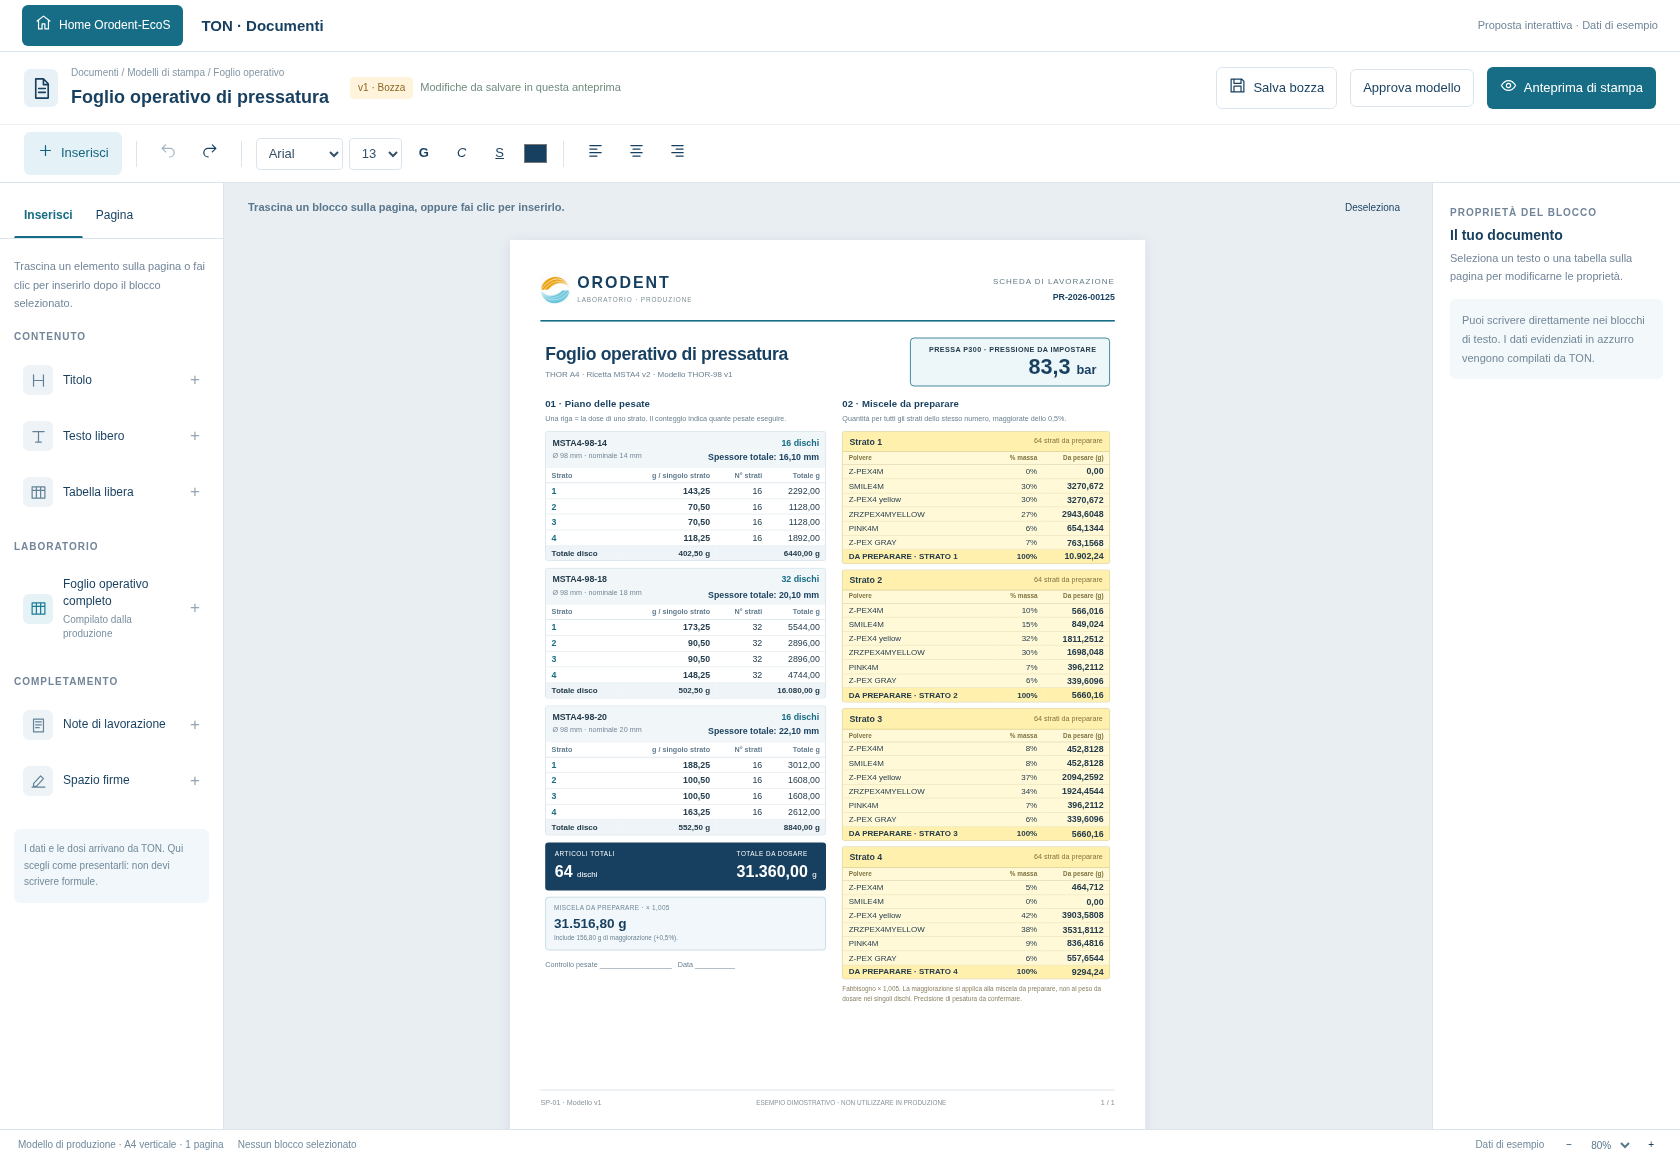
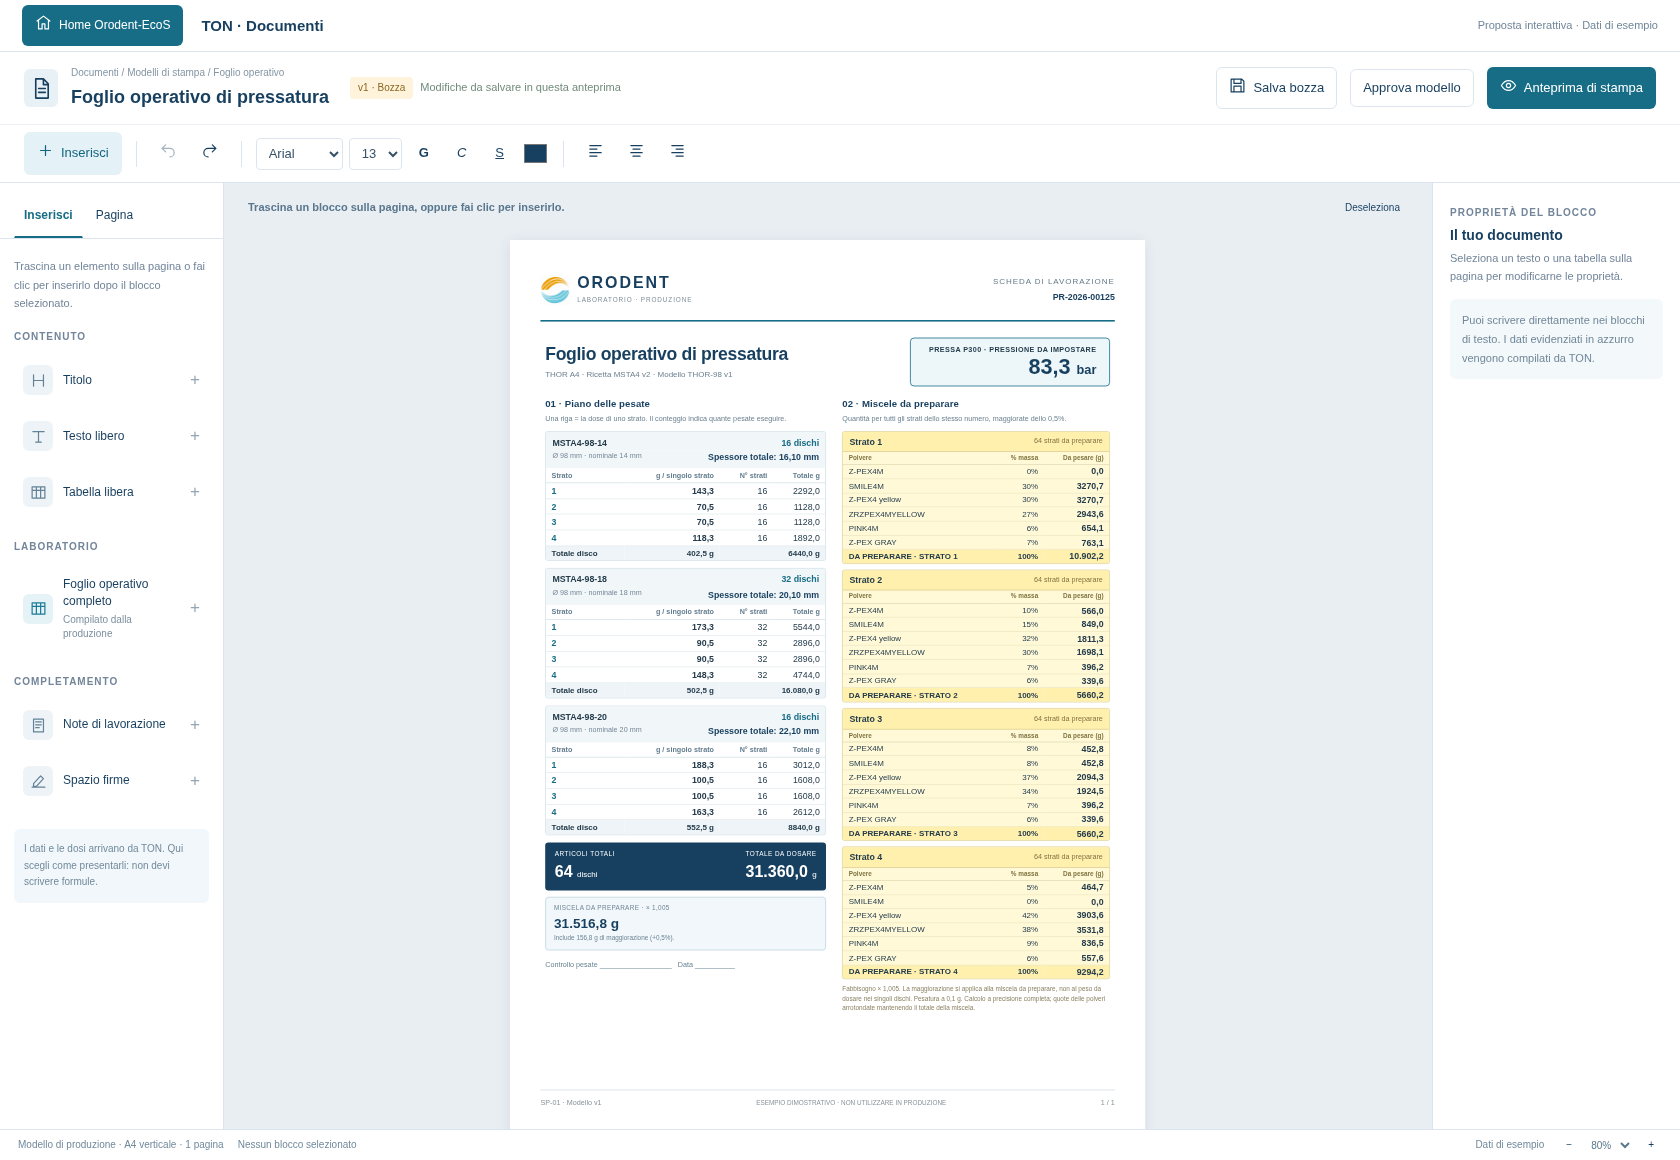
Reflect 0.1 gram weighing precision in laboratory document proposal

diff --git a/docs/mockups/ton-documenti-laboratorio.html b/docs/mockups/ton-documenti-laboratorio.html
@@ -57,10 +57,18 @@ const labFormats=[
 ];
 const labPowders=['Z-PEX4M','SMILE4M','Z-PEX4 yellow','ZRZPEX4MYELLOW','PINK4M','Z-PEX GRAY'];
 const labRecipes=[[0,30,30,27,6,7],[10,15,32,30,7,6],[8,8,37,34,7,6],[5,0,42,38,9,6]];
-const labNumber=n=>new Intl.NumberFormat('it-IT',{minimumFractionDigits:2,maximumFractionDigits:2}).format(n/100);
-const labMixNumber=n=>new Intl.NumberFormat('it-IT',{minimumFractionDigits:2,maximumFractionDigits:4}).format(n/100);
-function labData(){const scale=$('sample').value==='long'?.5:1;const formats=labFormats.map(f=>({...f,count:f.count*scale}));const qty=formats.reduce((t,f)=>t+f.count,0);const layers=[0,1,2,3].map(i=>{const mass=formats.reduce((t,f)=>t+f.weights[i]*f.count,0);return{number:i+1,count:qty,mass,preparation:mass*1005/1000}});const total=layers.reduce((t,l)=>t+l.mass,0),preparationTotal=layers.reduce((t,l)=>t+l.preparation,0);return{formats,qty,layers,total,preparationTotal,allowance:preparationTotal-total}}
-function labSheet(block){const d=labData();return `<div class="lab-heading"><div><h2>Foglio operativo di pressatura</h2><p>THOR A4 · Ricetta MSTA4 v2 · Modello THOR-98 v1</p></div><div class="lab-pressure"><span>PRESSA P300 · PRESSIONE DA IMPOSTARE</span><strong>83,3 <small>bar</small></strong></div></div><div class="lab-layout"><section class="lab-weigh"><h3>01 · Piano delle pesate</h3><p class="lab-help">Una riga = la dose di uno strato. Il conteggio indica quante pesate eseguire.</p>${d.formats.map(f=>`<div class="lab-format"><div class="lab-format-title"><b>${f.code}</b><strong>${f.count} dischi</strong></div><div class="lab-dimensions">Ø 98 mm · nominale ${f.nominal} mm <b>Spessore totale: ${f.thickness} mm</b></div><table><thead><tr><th>Strato</th><th>g / singolo strato</th><th>N° strati</th><th>Totale g</th></tr></thead><tbody>${f.weights.map((m,i)=>`<tr><td><span class="lab-layer">${i+1}</span>${block.engineering?`<small class="lab-engineering">${[1400,1500,1700,1900][i]} ppm</small>`:''}</td><td class="number"><b>${labNumber(m)}</b></td><td class="number">${f.count}</td><td class="number">${labNumber(m*f.count)}</td></tr>`).join('')}</tbody><tfoot><tr><td>Totale disco</td><td class="number">${labNumber(f.weights.reduce((t,m)=>t+m,0))} g</td><td colspan="2" class="number">${labNumber(f.weights.reduce((t,m)=>t+m,0)*f.count)} g</td></tr></tfoot></table>${block.engineering?'<div class="lab-engineering">Coefficiente modello: 25 g/mm · dati di progetto</div>':''}</div>`).join('')}<div class="lab-grand"><div><span>ARTICOLI TOTALI</span><strong>${d.qty} <small>dischi</small></strong></div><div><span>TOTALE DA DOSARE</span><strong>${labNumber(d.total)} <small>g</small></strong></div></div><div class="lab-preparation"><span>MISCELA DA PREPARARE · × 1,005</span><b>${labNumber(d.preparationTotal)} g</b><small>Include ${labNumber(d.allowance)} g di maggiorazione (+0,5%).</small></div><div class="lab-controls">Controllo pesate __________________ &nbsp; Data __________</div></section><section class="lab-mix"><h3>02 · Miscele da preparare</h3><p class="lab-help">Quantità per tutti gli strati dello stesso numero, maggiorate dello 0,5%.</p><div class="lab-mix-grid">${d.layers.map((l,i)=>`<div class="lab-mix-card"><div class="lab-mix-title"><b>Strato ${l.number}</b><span>${l.count} strati da preparare${block.engineering?' · '+[1400,1500,1700,1900][i]+' ppm':''}</span></div><table><thead><tr><th>Polvere</th><th>% massa</th><th>Da pesare (g)</th></tr></thead><tbody>${labPowders.map((p,j)=>`<tr><td>${p}</td><td class="number">${labRecipes[i][j]}%</td><td class="number"><b>${labMixNumber(l.preparation*labRecipes[i][j]/100)}</b></td></tr>`).join('')}</tbody><tfoot><tr><td>DA PREPARARE · STRATO ${l.number}</td><td class="number">100%</td><td class="number">${labNumber(l.preparation)}</td></tr></tfoot></table></div>`).join('')}</div><p class="lab-footnote">Fabbisogno × 1,005. La maggiorazione si applica alla miscela da preparare, non al peso da dosare nei singoli dischi. Precisione di pesatura da confermare.</p></section></div>`}
+// Demo values use integer centigrams. Weighing values use integer decigrams.
+const labNumber=n=>new Intl.NumberFormat('it-IT',{minimumFractionDigits:1,maximumFractionDigits:1}).format(Math.floor((n+5)/10)/10);
+function labWeighing(centigrams,percentages){
+ const target=Math.floor((centigrams+5)/10);
+ const quotas=percentages.map((p,i)=>({i,units:Math.floor(centigrams*p/1000),remainder:centigrams*p%1000}));
+ let missing=target-quotas.reduce((sum,q)=>sum+q.units,0);
+ const order=[...quotas].sort((a,b)=>b.remainder-a.remainder||a.i-b.i);
+ for(let i=0;i<missing;i++)order[i].units++;
+ return{target,parts:quotas.map(q=>q.units)};
+}
+function labData(){const scale=$('sample').value==='long'?.5:1;const formats=labFormats.map(f=>({...f,count:f.count*scale}));const qty=formats.reduce((t,f)=>t+f.count,0);const layers=[0,1,2,3].map(i=>{const mass=formats.reduce((t,f)=>t+f.weights[i]*f.count,0);return{number:i+1,count:qty,mass,preparation:mass*1005/1000,weighing:labWeighing(mass*1005/1000,labRecipes[i])}});const total=layers.reduce((t,l)=>t+l.mass,0),preparationTotal=layers.reduce((t,l)=>t+l.preparation,0);const preparationWeighingTotal=layers.reduce((t,l)=>t+l.weighing.target*10,0);return{formats,qty,layers,total,preparationTotal,preparationWeighingTotal,allowance:preparationTotal-total}}
+function labSheet(block){const d=labData();return `<div class="lab-heading"><div><h2>Foglio operativo di pressatura</h2><p>THOR A4 · Ricetta MSTA4 v2 · Modello THOR-98 v1</p></div><div class="lab-pressure"><span>PRESSA P300 · PRESSIONE DA IMPOSTARE</span><strong>83,3 <small>bar</small></strong></div></div><div class="lab-layout"><section class="lab-weigh"><h3>01 · Piano delle pesate</h3><p class="lab-help">Una riga = la dose di uno strato. Il conteggio indica quante pesate eseguire.</p>${d.formats.map(f=>`<div class="lab-format"><div class="lab-format-title"><b>${f.code}</b><strong>${f.count} dischi</strong></div><div class="lab-dimensions">Ø 98 mm · nominale ${f.nominal} mm <b>Spessore totale: ${f.thickness} mm</b></div><table><thead><tr><th>Strato</th><th>g / singolo strato</th><th>N° strati</th><th>Totale g</th></tr></thead><tbody>${f.weights.map((m,i)=>`<tr><td><span class="lab-layer">${i+1}</span>${block.engineering?`<small class="lab-engineering">${[1400,1500,1700,1900][i]} ppm</small>`:''}</td><td class="number"><b>${labNumber(m)}</b></td><td class="number">${f.count}</td><td class="number">${labNumber(m*f.count)}</td></tr>`).join('')}</tbody><tfoot><tr><td>Totale disco</td><td class="number">${labNumber(f.weights.reduce((t,m)=>t+m,0))} g</td><td colspan="2" class="number">${labNumber(f.weights.reduce((t,m)=>t+m,0)*f.count)} g</td></tr></tfoot></table>${block.engineering?'<div class="lab-engineering">Coefficiente modello: 25 g/mm · dati di progetto</div>':''}</div>`).join('')}<div class="lab-grand"><div><span>ARTICOLI TOTALI</span><strong>${d.qty} <small>dischi</small></strong></div><div><span>TOTALE DA DOSARE</span><strong>${labNumber(d.total)} <small>g</small></strong></div></div><div class="lab-preparation"><span>MISCELA DA PREPARARE · × 1,005</span><b>${labNumber(d.preparationWeighingTotal)} g</b><small>Include ${labNumber(d.allowance)} g di maggiorazione (+0,5%).</small></div><div class="lab-controls">Controllo pesate __________________ &nbsp; Data __________</div></section><section class="lab-mix"><h3>02 · Miscele da preparare</h3><p class="lab-help">Quantità per tutti gli strati dello stesso numero, maggiorate dello 0,5%.</p><div class="lab-mix-grid">${d.layers.map((l,i)=>`<div class="lab-mix-card"><div class="lab-mix-title"><b>Strato ${l.number}</b><span>${l.count} strati da preparare${block.engineering?' · '+[1400,1500,1700,1900][i]+' ppm':''}</span></div><table><thead><tr><th>Polvere</th><th>% massa</th><th>Da pesare (g)</th></tr></thead><tbody>${labPowders.map((p,j)=>`<tr><td>${p}</td><td class="number">${labRecipes[i][j]}%</td><td class="number"><b>${labNumber(l.weighing.parts[j]*10)}</b></td></tr>`).join('')}</tbody><tfoot><tr><td>DA PREPARARE · STRATO ${l.number}</td><td class="number">100%</td><td class="number">${labNumber(l.weighing.target*10)}</td></tr></tfoot></table></div>`).join('')}</div><p class="lab-footnote">Fabbisogno × 1,005. La maggiorazione si applica alla miscela da preparare, non al peso da dosare nei singoli dischi. Pesatura a 0,1 g. Calcolo a precisione completa; quote delle polveri arrotondate mantenendo il totale della miscela.</p></section></div>`}
 function rowData(kind){const d=data(),m=d.multiplier;
  if(kind==='articles')return d.long?Array.from({length:12},(_,i)=>({code:'MSTA2-98-'+(12+i),description:'Thor A2',format:'Ø 98 × '+(12+i)+' mm',qty:'2'})):[{code:'MSTA2-98-16',description:'Thor A2',format:'Ø 98 × 16 mm',qty:'8'},{code:'MSTA2-98-18',description:'Thor A2',format:'Ø 98 × 18 mm',qty:'4'}];
  if(kind==='dose')return [{layer:'1 · Superiore',powder:'BI-3 · Bianca',revision:'v2',dose:159*m},{layer:'1 · Superiore',powder:'GI-5 · Gialla',revision:'v1',dose:53*m},{layer:'2 · Inferiore',powder:'BI-3 · Bianca',revision:'v2',dose:106*m},{layer:'2 · Inferiore',powder:'GI-5 · Gialla',revision:'v1',dose:106*m}];

diff --git a/docs/ton-documenti-laboratorio.md b/docs/ton-documenti-laboratorio.md
@@ -56,8 +56,10 @@ a verificare la presenza e la leggibilità dei campi, non a validare il processo
 - La miscela si raggruppa soltanto quando coincidono prodotto, versione della
   composizione e strato. Lo stesso numero di strato in ricette diverse non basta.
 - I totali si ricavano dai valori di calcolo completi; non dai pesi unitari già
-  arrotondati per la visualizzazione. Precisione delle bilance, arrotondamenti
-  e gestione dei residui devono essere regole esplicite e versionate.
+  arrotondati per la visualizzazione. La precisione delle bilance confermata è
+  **0,1 g**. La regola di arrotondamento e la gestione dei residui vanno conservate
+  esplicitamente. I servizi produttivi dovranno usare decimali esatti; il codice
+  JavaScript del prototipo resta limitato ai dati dimostrativi.
 - **Maggiorazione confermata dall'utente:** la miscela da preparare è il fabbisogno
   da dosare moltiplicato per **1,005**, quindi **+0,5%**, per compensare le perdite
   durante la lavorazione. Le percentuali della ricetta si applicano alla quantità
@@ -70,9 +72,21 @@ a verificare la presenza e la leggibilità dei campi, non a validare il processo
 - Il fattore confermato viene applicato uniformemente nell'esempio nuovo. Il quarto
   riquadro del foglio originale riporta 9.275,7 g, che non corrisponde a 9.248 × 1,005:
   il prototipo non deduce da quel valore un'eccezione al fattore indicato dall'utente.
-- Le quote delle polveri sono mostrate fino a quattro decimali per non inventare
-  una regola di arrotondamento operativo. Precisione delle bilance e gestione del
-  residuo restano da confermare; il campione conserva le quantità analitiche.
+- **Precisione confermata dall'utente: 0,1 g.** Tutti i pesi operativi vengono
+  stampati con un decimale; i valori analitici restano disponibili senza perdita
+  di precisione. I fabbisogni aggregati non derivano dalle dosi unitarie già
+  arrotondate per la stampa.
+- Nel prototipo il totale da preparare per ogni strato viene arrotondato al decimo
+  più vicino (metà verso l'alto). Le quote delle polveri sono ripartite in decimi
+  interi: si parte dal valore inferiore e si assegnano i decimi residui alle quote
+  con la maggiore parte frazionaria, con ordine stabile per i pareggi. Questo
+  minimizza lo scostamento mantenendo la somma uguale al totale da preparare;
+  una quota allo 0% non riceve residui. È una regola proposta per l'implementazione,
+  da validare con gli esempi reali prima dell'uso produttivo.
+- Il totale operativo complessivo è la somma dei totali di preparazione dei singoli
+  strati. Il documento distingue queste quantità dai fabbisogni analitici. Il
+  campione visualizza 10.902,2 g, 5.660,2 g, 5.660,2 g e 9.294,2 g: in tutto
+  **31.516,8 g** da preparare. Percentuali e precisione degli spessori non cambiano.
 - La pressione macchina in bar va determinata dalla regola della pressa e dai
   suoi parametri, non da una semplice conversione della pressione sul materiale
   in kg/cm². Prima di calcolarla occorre confermare come si ottiene il valore
